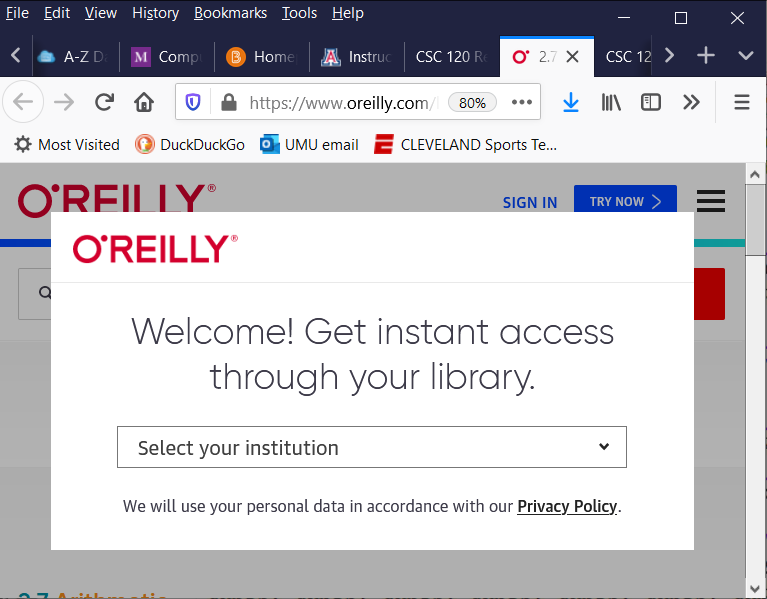
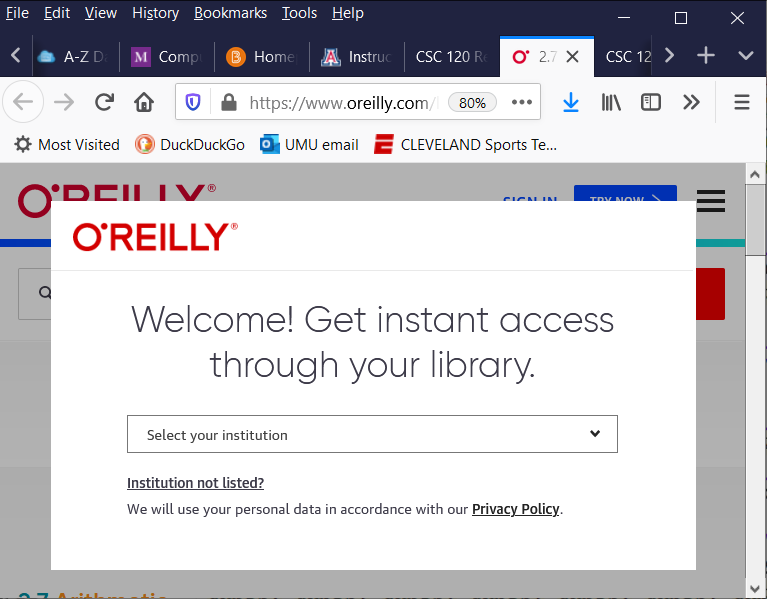
Add files via upload

diff --git a/Resources/oreillyAccessInstr.html b/Resources/oreillyAccessInstr.html
@@ -58,10 +58,9 @@
 	<blockquote>
 	    When you click on a link to a Textbook Reference on the "Readings" page of the CSC 120 web site, if you are not logged into the O'Reilly system already, you will see a screen that looks like this:<br/><br/>
 		<img src="oreillyaccess01.png" width="540" height="375"/> <br/><br/>
-		Click on the pull-down list to select an institution.&nbsp; Mount Union won't be in the list, so you have to choose the first option in the list, entitled "Not listed? Click here.", as shown next: <br/><br/>
-		<img src="oreillyaccess02.png" width="540" height="375" /> <br/><br/>
-		In the dialog that appears, enter your full Mount Union e-mail address, including the "@mountunion.edu" part at the end.&nbsp; Then click the red "Let's Go" button (note: pressing the [Enter] key doesn't work; you must click with the mouse): <br/><br/>
+		Click on the link on this web page that says "Institution not listed?", and you will see this prompt: <br/><br/>
 		<img src="oreillyaccess03.png" width="540" height="375" /> <br/><br/>
+		In the text field on screen, enter your full Mount Union e-mail address, including the "@mountunion.edu" part at the end.&nbsp; Then click the red "Let's Go" button (note: pressing the [Enter] key doesn't work; you must click with the mouse): <br/><br/>
 		Then you'll see this next screen which indicates that you have entered your e-mail address successfully.&nbsp; Click the red "Got It" button, and then you will be directed to the proper section of the on-line textbook. <br/><br/>
 		<img src="oreillyaccess04.png" width="540" height="375" /> <br/><br/>
 		You can navigate from section to section in the book using the navigation aids at the top of the browser window.&nbsp; You can also click the "Home" icon (looks like a little house) to return to the O'Reilly Learning main screen and search for books by specific authors or search for specific topics, etc. <br/><br/>
